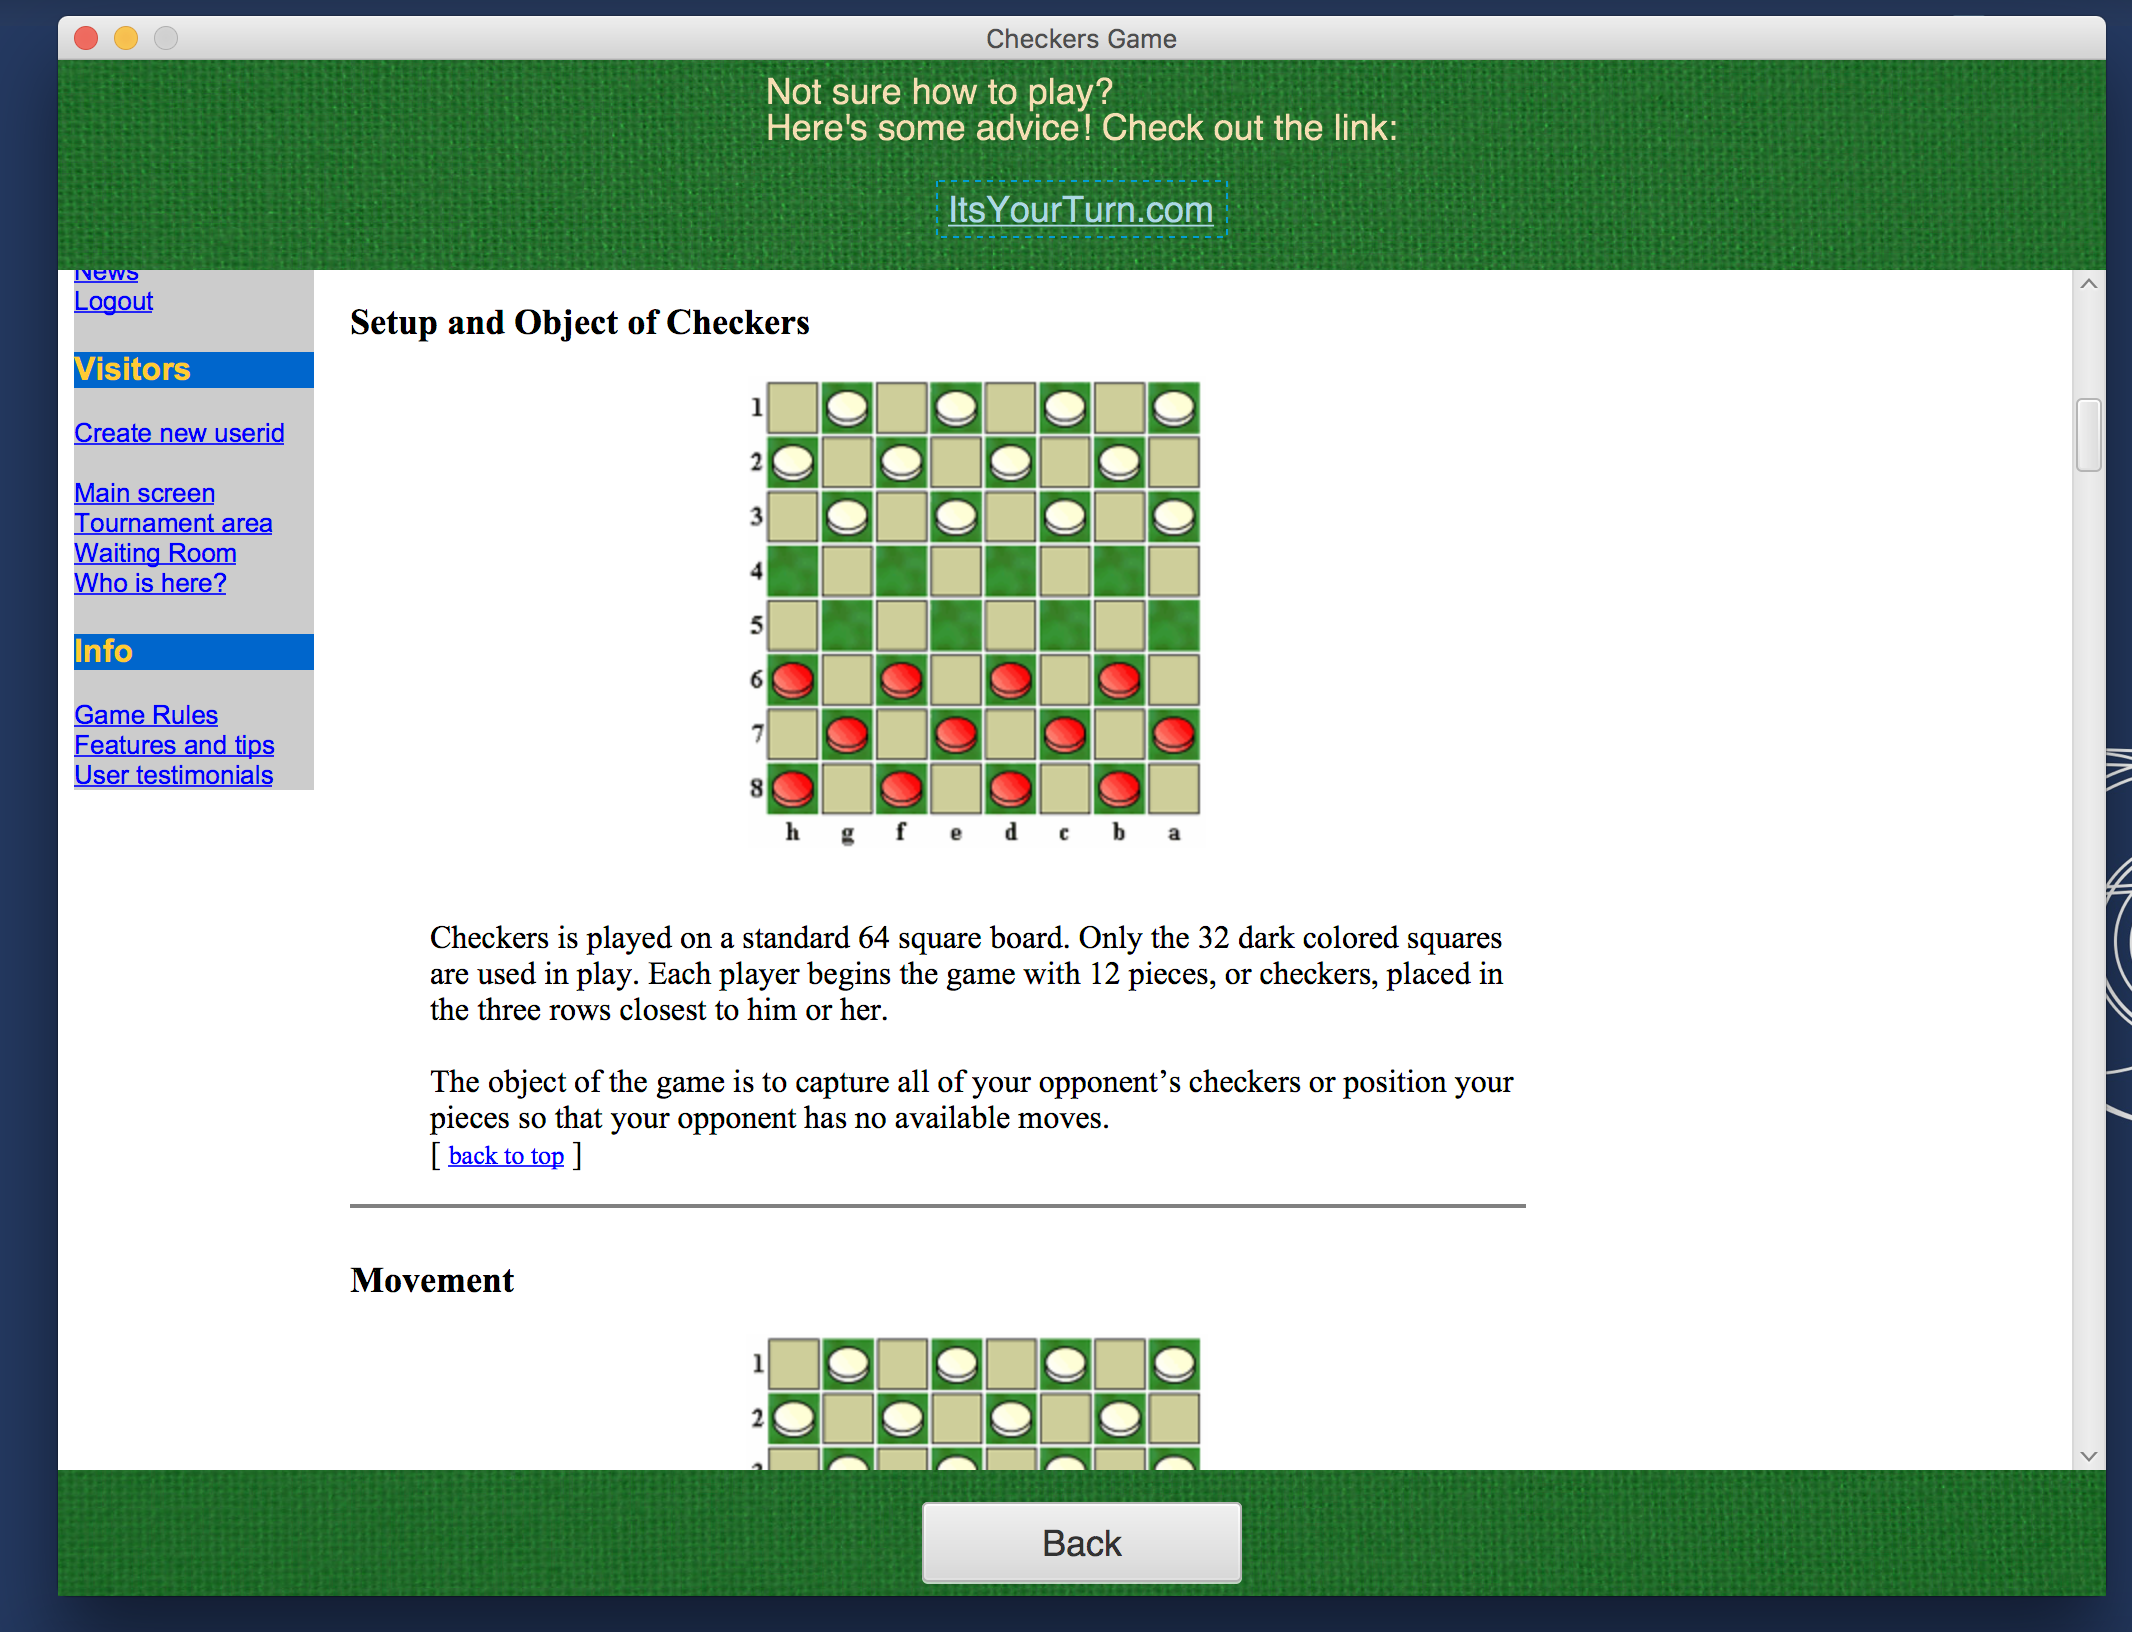
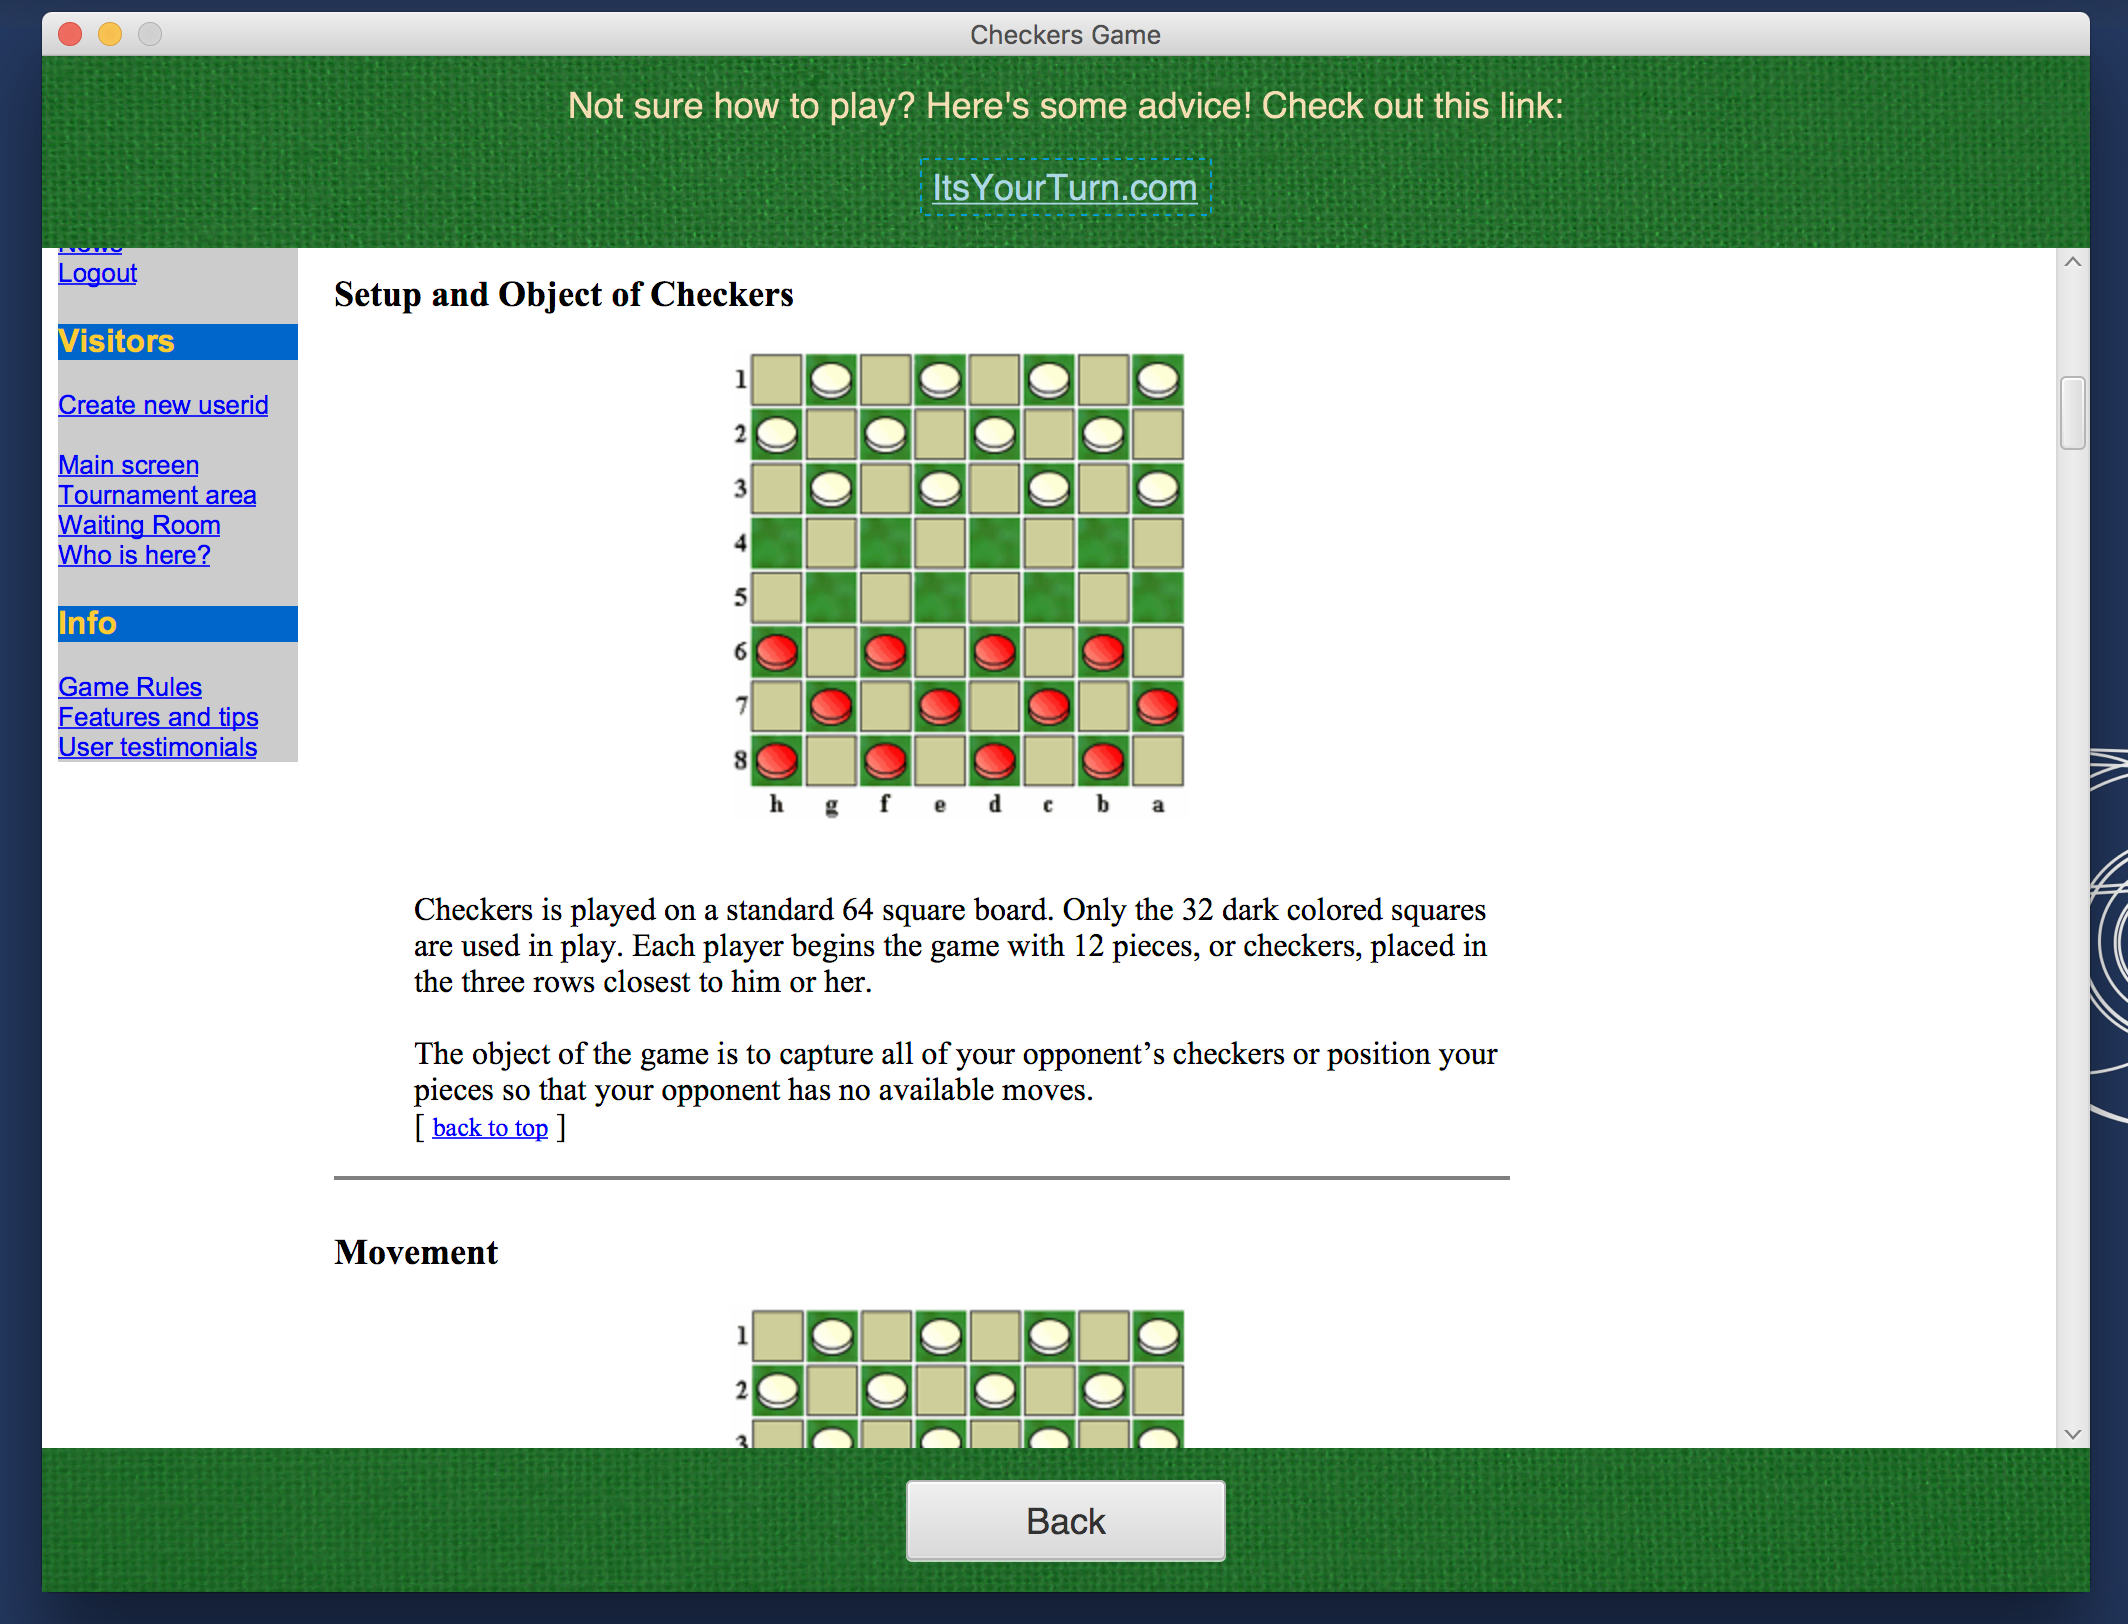
Font & screen-shots update.

diff --git a/src/cs102/pr/pack/styles/style.css b/src/cs102/pr/pack/styles/style.css
@@ -2,6 +2,7 @@
 / / custom image -fx-background-repeat: stretch;
     -fx-background-size: 2000 1000;
     -fx-background-position: center center;
+    /*line-height: 1.6;*/
 }
 .rules-view {
     -fx-background-image: url("../assets/rulesPic.jpg");
@@ -19,7 +20,8 @@
     -fx-background-image: url("../assets/authorPic.jpg");
 }
 
-#fancy-mancy {
+#fancy-mancy-text {
+    /* author text */
     -fx-font: 35px Helvetica;
     -fx-fill: linear-gradient(from 0% 0% to 120% 195%, repeat, royalblue 10%, rosybrown 50%);
     -fx-stroke: Grey;

diff --git a/src/cs102/pr/pack/RulesView.java b/src/cs102/pr/pack/RulesView.java
@@ -25,7 +25,7 @@ public class RulesView {
         StackPane layout = new StackPane();
         VBox vbox = new VBox(16);
         Button back = new Button("Back");
-        Text text = new Text("Not sure how to play?\nHere's some advice! Check out the link:");
+        Text text = new Text("Not sure how to play? Here's some advice! Check out this link:");
 
         back.setFont(StarterView.font);
         back.setPrefSize(160.0, 40.0);
@@ -33,6 +33,7 @@ public class RulesView {
 
         text.setFill(Color.WHEAT);
         text.setFont(StarterView.font);
+        text.setLineSpacing(6);
         link.setFont(StarterView.font);
         link.setTextFill(Color.LIGHTBLUE);
 

diff --git a/src/cs102/pr/pack/GameView.java b/src/cs102/pr/pack/GameView.java
@@ -50,7 +50,7 @@ public class GameView {
     public Scene GameViewScene() {
 
         VBox hbox = new VBox(10);
-        scene = new Scene(border, 600, 720);
+        scene = new Scene(border, 600, 768);
 
         MenuBar menuBar = new MenuBar();
         final MenuItem exitItem = new MenuItem("Exit game");
@@ -70,6 +70,8 @@ public class GameView {
         border.setCenter(setup.createContent());
         text.setFont(StarterView.font);
         text.setFill(StarterView.color);
+
+        text.setLineSpacing(6);
         border.setBottom(text);
 
         menu2.setDisable(false);

diff --git a/src/cs102/pr/pack/SetupGameView.java b/src/cs102/pr/pack/SetupGameView.java
@@ -72,6 +72,7 @@ public class SetupGameView {
 
         Text label = new Text("Enter player names and then press\nbegin to start the game.");
         label.setFill(StarterView.color);
+        label.setLineSpacing(6);
         label.setFont(StarterView.font);
 
         text = new Text("\nMust enter names bigger then 2 characters.");

diff --git a/src/cs102/pr/pack/AuthorView.java b/src/cs102/pr/pack/AuthorView.java
@@ -29,7 +29,7 @@ public class AuthorView {
         pane.setBottom(back);
 
         text.setFill(Color.WHEAT);
-        text.setId("fancy-mancy");
+        text.setId("fancy-mancy-text");
         vbox.getChildren().addAll(text);
         layout.getChildren().addAll(vbox, pane);
 

diff --git a/src/cs102/pr/pack/Main.java b/src/cs102/pr/pack/Main.java
@@ -19,11 +19,5 @@ public class Main extends Application {
         window.show();
     }
 
-    // no jar created
-    // simple first year project
-    // CS102 course
-
-    // Andrija Djuric - 2687 SI
-
     public static void main(String[] args) { launch(args); }
 }

diff --git a/src/cs102/pr/pack/Setup.java b/src/cs102/pr/pack/Setup.java
@@ -2,6 +2,7 @@ package cs102.pr.pack;
 
 import javafx.scene.Group;
 import javafx.scene.Parent;
+import javafx.scene.control.Separator;
 import javafx.scene.layout.Pane;
 
 public class Setup {

diff --git a/README.md b/README.md
@@ -1,14 +1,17 @@
 # cs102-checkers-game-master
 <h3>A simple freshman Java project with the following characteristics:</h3>
 <ul style="list-style-type:circle">
-  <li>Made during the CS102 course - Objects & Data Abstraction</li>
+  <li>Made during the CS102 Objects & Data Abstraction course</li>
   <li>JavaFX graphics and animations</li>
   <li>A MySQL database</li>
   <li>Somewhat clunky beginner code</li>
-  <li>A music component that plays "Vide Cor Meum" - Patrick Cassidy</li>
+  <li>A music component that plays "Vide Cor Meum" by Patrick Cassidy</li>
 </ul>
-<p>Personal note:</p>
-<p>Made in NetBeans IDE, modified in IntelliJ IDEA. It was interesting and actually exciting checking out a project that I made back when I had just started learning engineering.</p> 
+<div class="panel panel-default">
+  <div class="panel-heading"><p>Personal note:</p></div>
+  <div class="panel-body"><p>Made in NetBeans IDE, modified in IntelliJ IDEA. It was interesting and actually exciting checking out a project that I made back when I had just started learning engineering.</p> 
+</div>
+</div>
 <hr>
 <h3>Project snapshots:</h3>
 <img src="screen-shots/s1.png">
